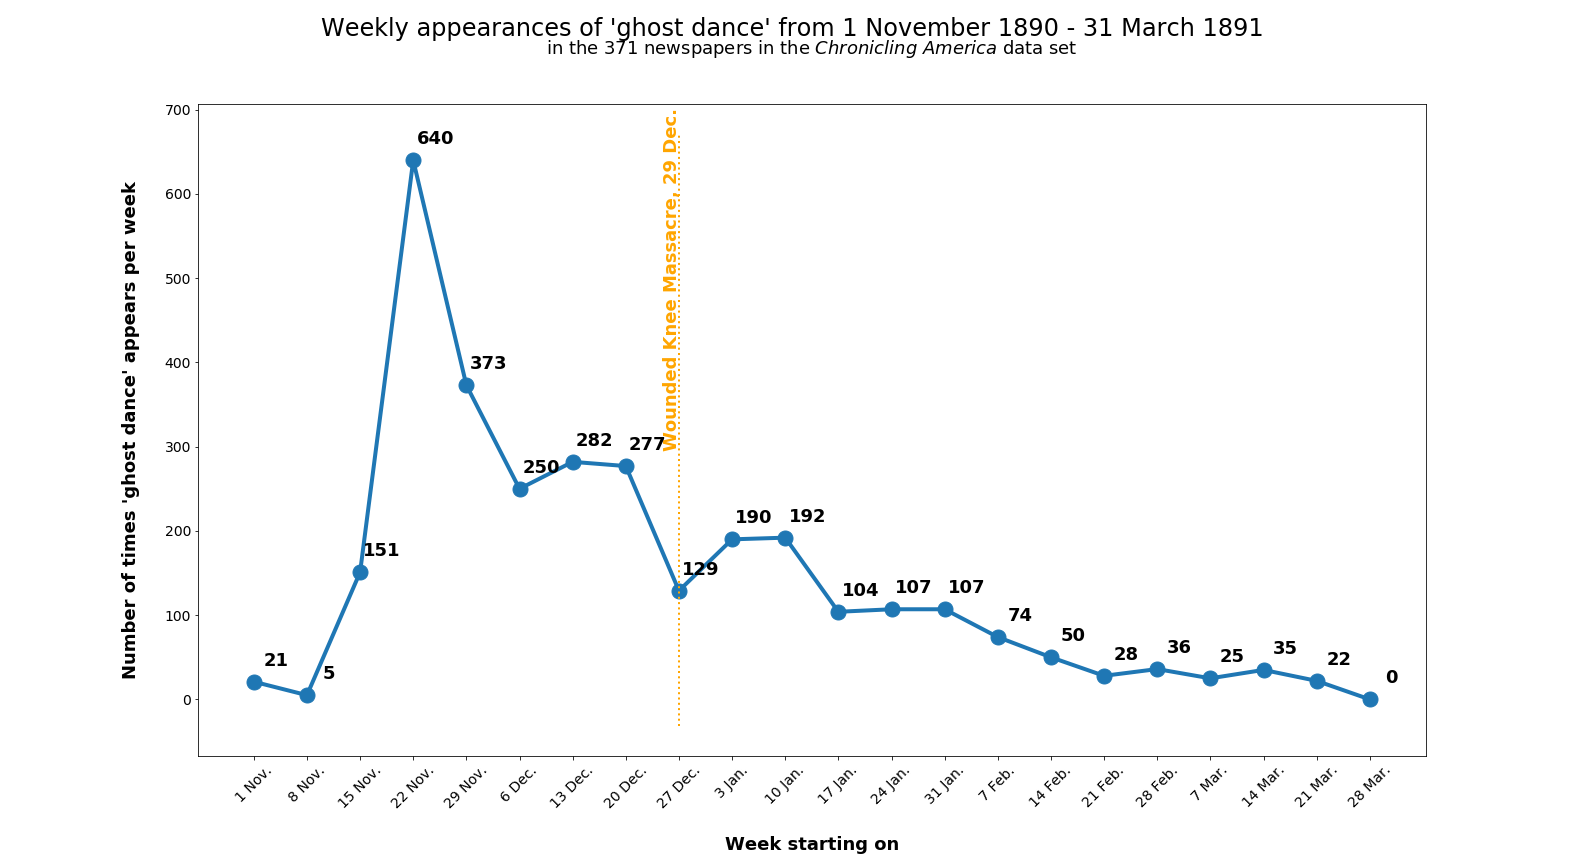
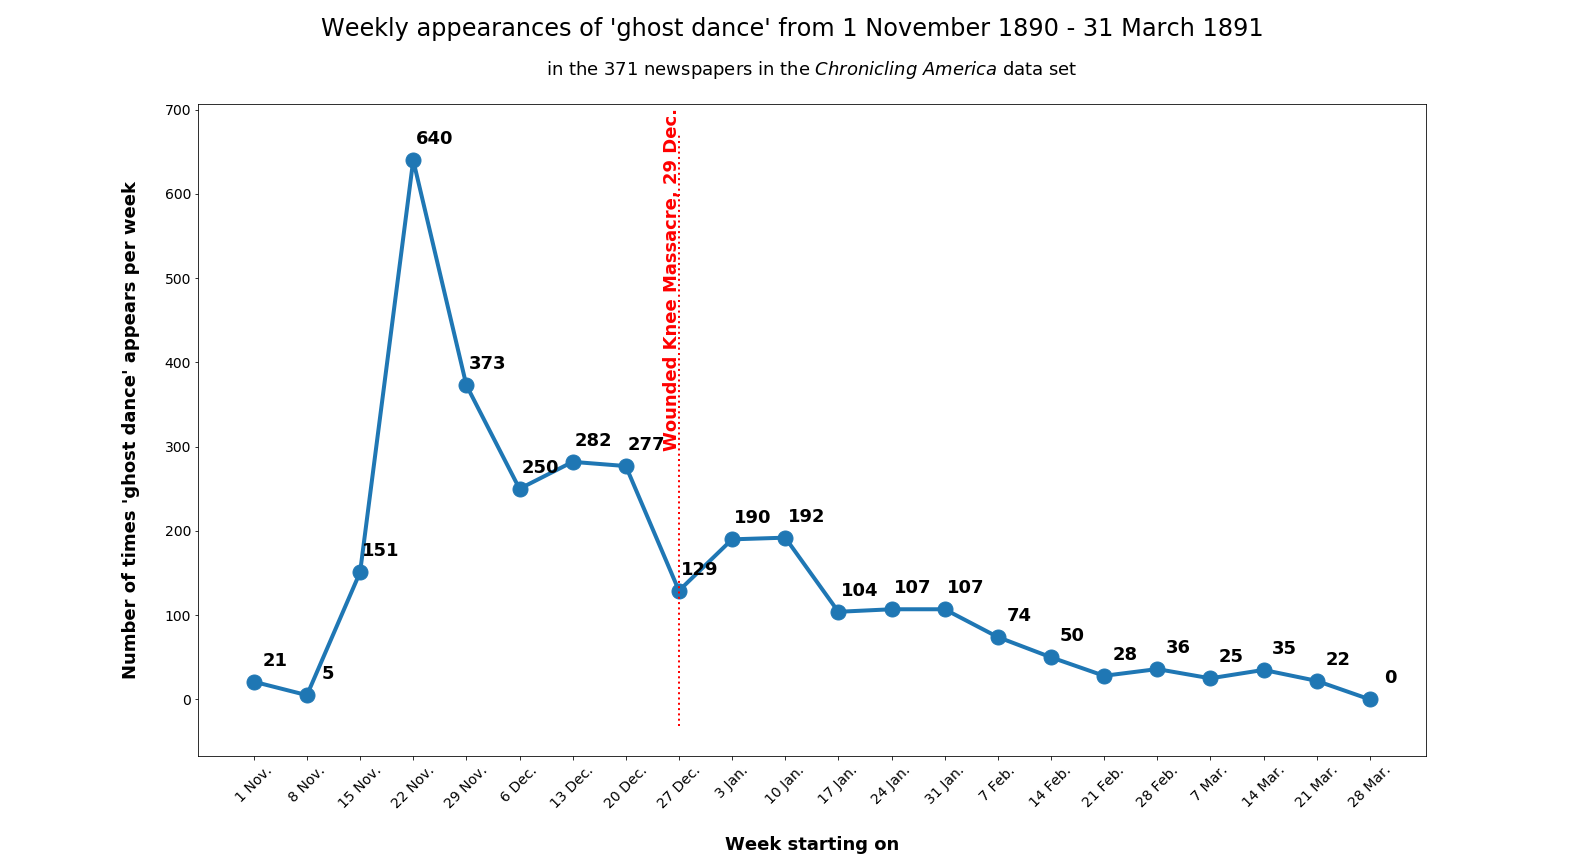
Adjust graphs

diff --git a/visualize-terms.py b/visualize-terms.py
@@ -61,7 +61,7 @@ terms_dict = {'wk': 'Wounded Knee',
 #              '1891-03-21': '21 Mar.',
 #              '1891-03-28': '28 Mar.'}
 y_dict = {'wk': 375,  # this dictionary helps plot the label on the orange line
-          'pr': 550,
+          'pr': 565,
           'gd': 300}
 
 # Create dates in dict in the right order.
@@ -110,7 +110,7 @@ for term in terms:
     ylim = plt.ylim()  # find the min and max of y on the graph
     vert_y = ylim  # use the min and max as a range for the vertical line
     vert_x = (8,8)  # place the vertical line where I want it. 0-indexed
-    plt.plot(vert_x, vert_y, linestyle=':', linewidth=2, color='orange')  # draw the dashed, vertical line
+    plt.plot(vert_x, vert_y, linestyle=':', linewidth=2, color='red')  # draw the dashed, vertical line
     """
     # make the tick labels on the x axis rotate; could use "vertical" or an int
     The list comprehension simply tells it to plot the right number of ticks
@@ -122,15 +122,15 @@ for term in terms:
     plt.ylabel(f'Number of times \'{terms_dict[term]}\' appears per week\n',
                fontweight='bold', fontsize=18)
     plt.suptitle(f'Weekly appearances of \'{terms_dict[term]}\' from 1 November 1890 - 31 March 1891', fontsize=24)
-    plt.title(f'in the {len(newspapers)} newspapers in the $\itChronicling$ $\itAmerica$ data set\n\n', fontsize=18)
+    plt.title(f'in the {len(newspapers)} newspapers in the $\itChronicling$ $\itAmerica$ data set\n', fontsize=18)
     plt.text(7.7, y_dict[term], 'Wounded Knee Massacre, 29 Dec.', rotation=90, 
-             color='orange', fontsize=18, fontweight='bold')
+             color='red', fontsize=18, fontweight='bold')
     for date, counts in term_counts:
         label = '{:}'.format(counts)
         plt.annotate(label,
                       (date, counts),
                       textcoords='offset points',
-                      xytext=(22,16),  # this adjusts the x,y of label placement
+                      xytext=(21,16),  # this adjusts the x,y of label placement
                       ha='center',
                       fontsize=18,
                       fontweight='bold')
